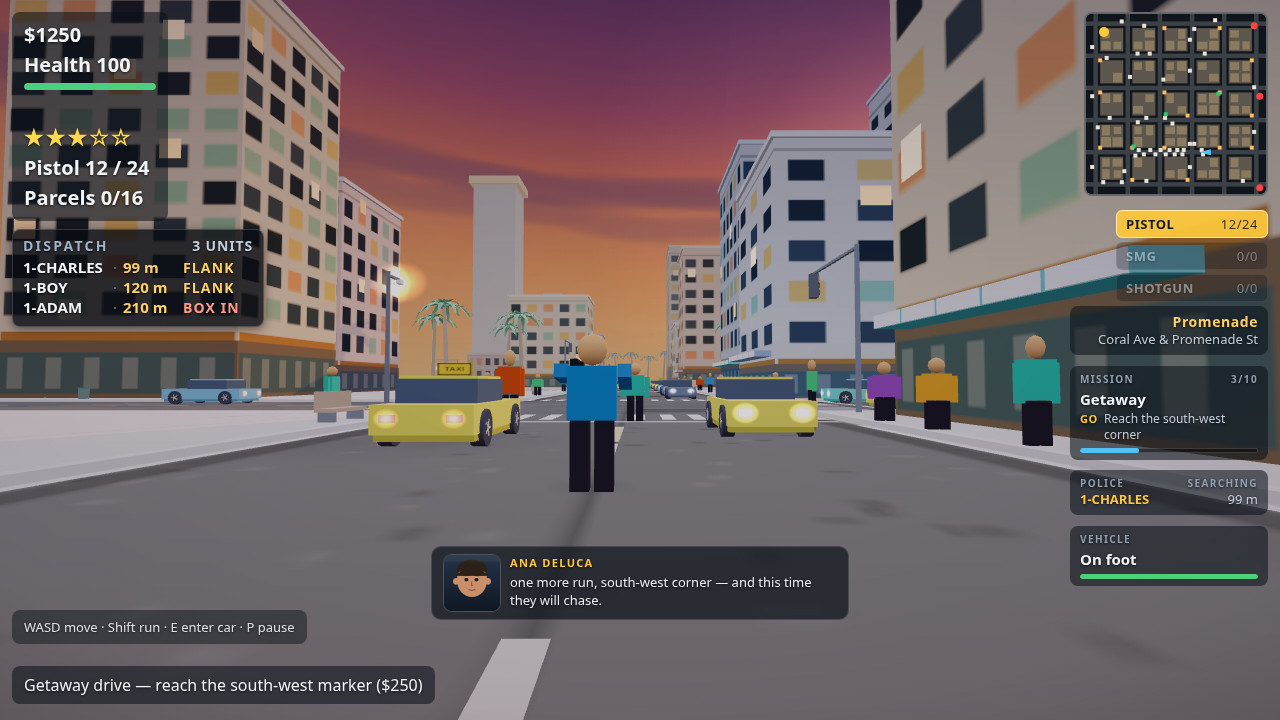
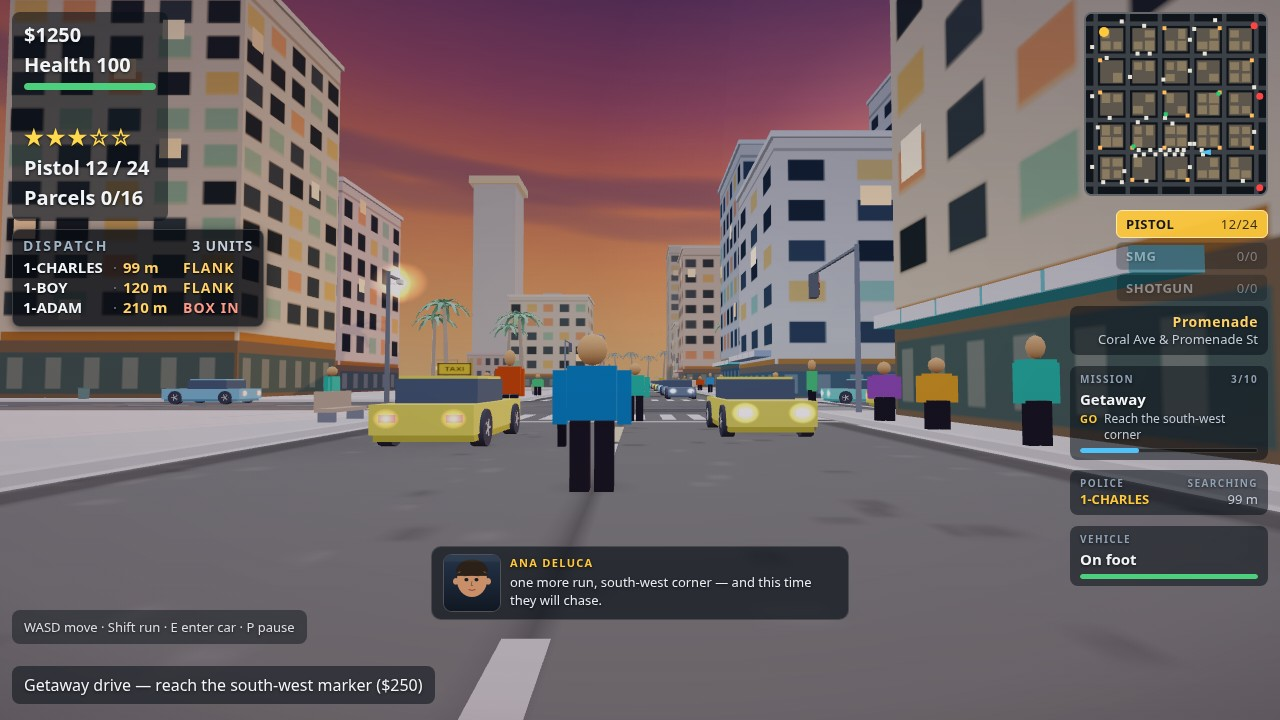
Final sheet 3-shot: dusk baru 3-street.jpg, cap-1 -> 2-downtown.jpg, hapus 2-shoot/4-title/cap-2/cap-3

diff --git a/game/src/player.js b/game/src/player.js
@@ -86,8 +86,13 @@ export function updatePlayer(p, dt, wish, run, camYaw, city) {
   // the legs and, faintly, the arms. A recoil kick lifts the right arm for a beat: armRx
   // more negative pitches the muzzle UP (rotation.x -1.45 is level, -1.87 is up 17°),
   // so the kick is subtracted — adding it pitched the barrel at the ground.
-  const armed = p.armed ? 1 : 0;
-  p.aim += (armed - p.aim) * Math.min(1, dt * 9);
+  // The raised two-handed grip belongs to firing, not to carrying: `p.armed` only says
+  // which gun is in his hand, so keying the pose off it left the pistol up and pointing
+  // down the street while Rio just stood there. A shot sets `aimHold` (0.9 s) and
+  // `recoil` (~0.14 s), so the arms come up on the trigger and drop back to his side
+  // once the shot is over. Driving clears `armed`, which keeps the hands down as before.
+  const aiming = p.armed && ((p.aimHold || 0) > 0 || (p.recoil || 0) > 0) ? 1 : 0;
+  p.aim += (aiming - p.aim) * Math.min(1, dt * 9);
   const aim = p.aim;
   const kick = (p.recoil || 0) * 1.9;
   const u = p.mesh.userData;
